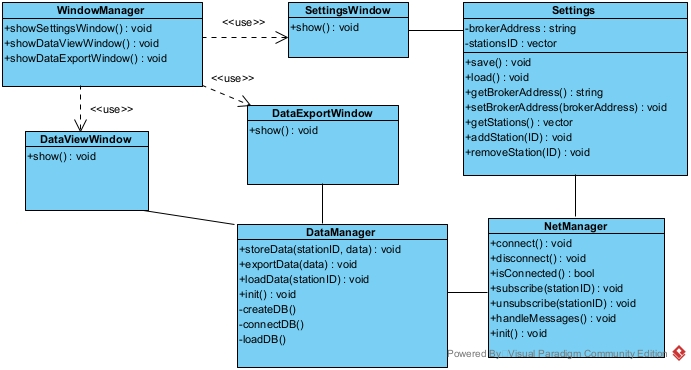
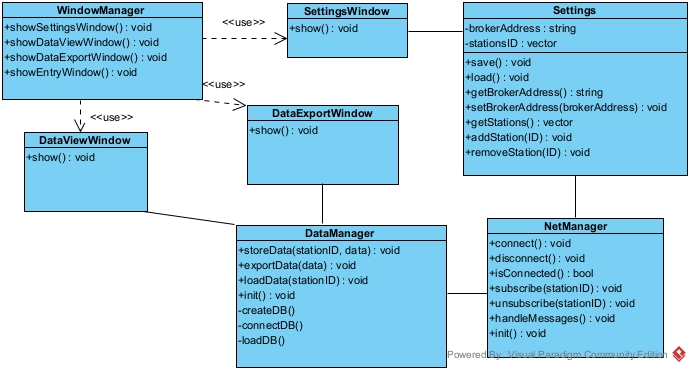
diagrama classes

diff --git a/code/windowmanager.cpp b/code/windowmanager.cpp
@@ -1,8 +1,34 @@
 #include "windowmanager.h"
 
-WindowManager::WindowManager(QWidget *parent)
-    : QWidget(parent)
+#include <QLabel>
+
+WindowManager::WindowManager()
 {
+
 }
 
-WindowManager::~WindowManager() {}
+WindowManager::~WindowManager()
+{
+
+};
+
+void WindowManager::showSettingsWindow()
+{
+
+};
+
+void WindowManager::showDataViewWindow()
+{
+
+};
+
+void WindowManager::showDataExportWindow()
+{
+
+};
+
+void WindowManager::showEntryWindow()
+{
+    QLabel* label = new QLabel("<h1 style=\"color:blue;\">SEMA</h1>");
+    label->show();
+};

diff --git a/code/windowmanager.h b/code/windowmanager.h
@@ -1,16 +1,15 @@
-#ifndef SEMA_WINMAN_H
-#define SEMA_WINMAN_H
-
-#include <QWidget>
-
-class WindowManager : public QWidget
+#pragma once
+class WindowManager
 {
-    Q_OBJECT
 
 public:
-    WindowManager(QWidget *parent = nullptr);
+    WindowManager();
     ~WindowManager();
 
+    void showEntryWindow();
+    void showSettingsWindow();
+    void showDataViewWindow();
+    void showDataExportWindow();
 private:
 };
-#endif // SEMA_WINMAN_H
+

diff --git a/code/main.cpp b/code/main.cpp
@@ -7,7 +7,7 @@ int main(int argc, char *argv[])
     QApplication app(argc, argv);
 
     WindowManager winManager;
-    winManager.show();
+    winManager.showEntryWindow();
 
     return app.exec();
 }